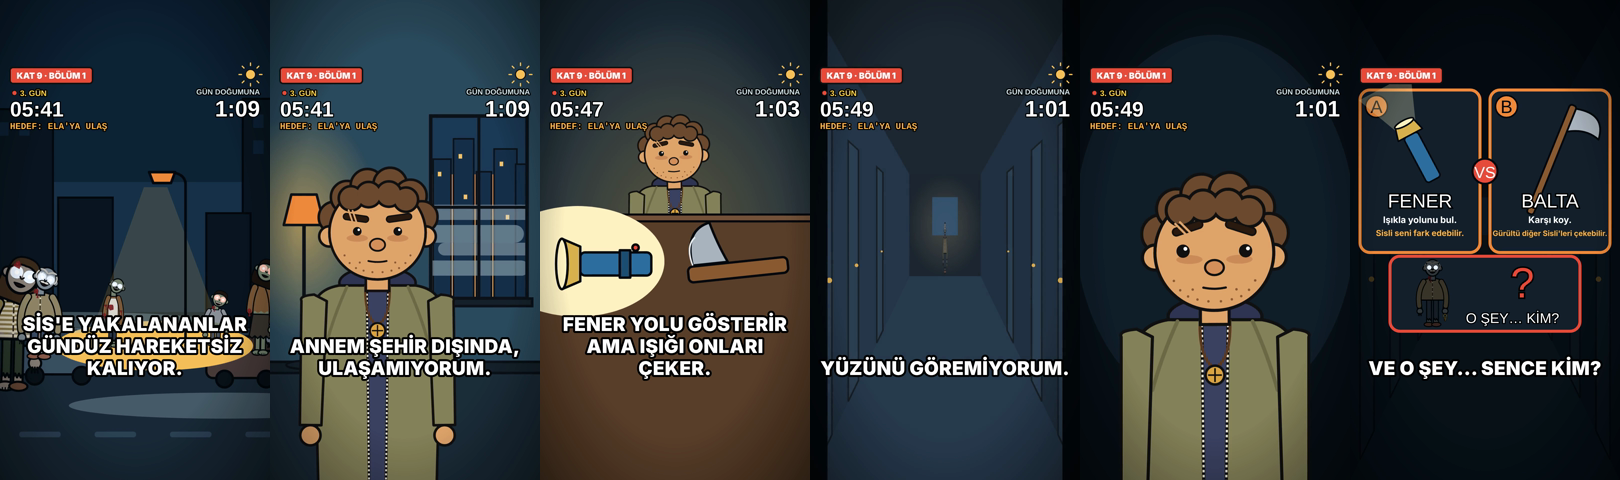
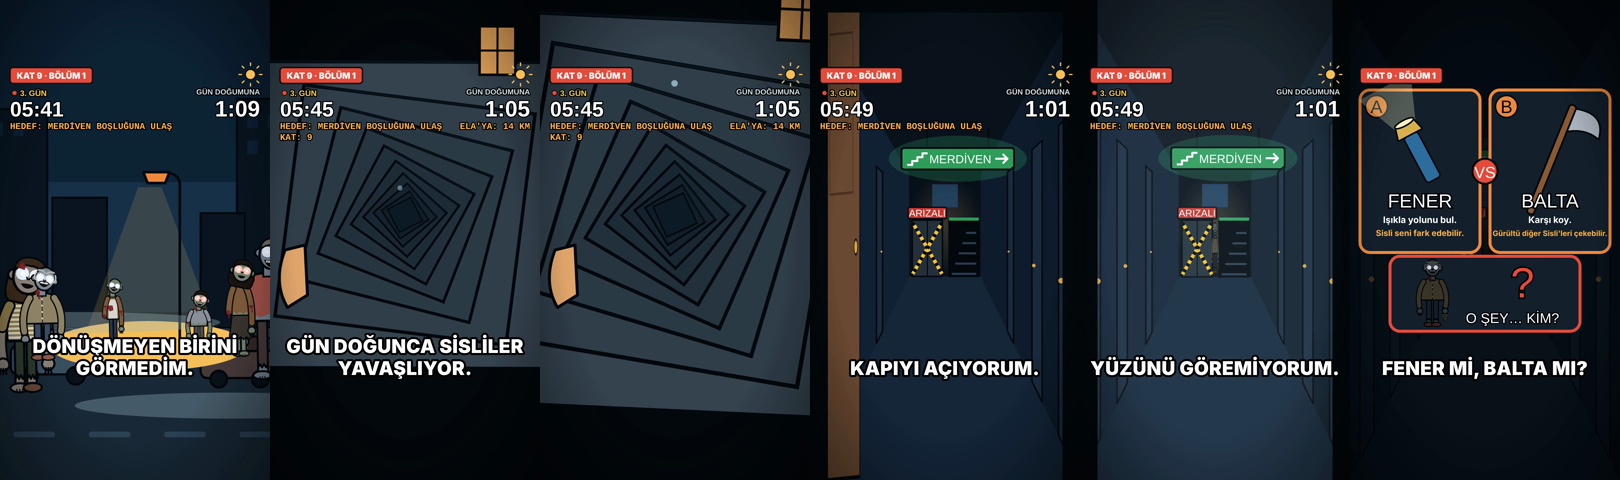
Bölüm 1 revizyon 7 render: sahne 2/11 yeni anlatıcı sesi (305 kredi), 109,3 sn
Claude-Session: https://claude.ai/code/session_01LL2aFcoaTdc2rLbhc4og9o

diff --git a/prototip/bolum01.build.html b/prototip/bolum01.build.html
@@ -359,7 +359,7 @@ svg{height:100vh;max-width:100vw;aspect-ratio:9/16;display:block}
 <g id="safe" style="display:none" pointer-events="none"><rect x="0" y="0" width="1080" height="270" fill="#ff3b30" opacity=".28"/><rect x="0" y="1500" width="1080" height="420" fill="#ff3b30" opacity=".28"/><rect x="960" y="1100" width="120" height="400" fill="#ff3b30" opacity=".28"/><text x="540" y="140" text-anchor="middle" font-size="30" fill="#fff">Reels üst alanı</text><text x="540" y="1700" text-anchor="middle" font-size="30" fill="#fff">Reels alt alanı</text></g>
 </svg>
 <!--ONIZLEME-->
-<script id="data" type="application/json">{"toplam": 106.93, "sahneler": [{"id": 1, "konusmaci": "Deniz", "ses_efekt": "rüzgâr, düşük gerilim müziği", "ses": {"dosya": "ses/sahne01-anlatici.mp3", "baslangic": 0.2, "sure": 2.456}, "altyazi": [{"t0": 0.2, "t1": 2.66, "satir": ["ÜÇ GÜN ÖNCE ŞEHRİN", "ÜSTÜNE SİS ÇÖKTÜ."], "konusan": "anlatici"}], "hud": {"gun": 3, "saat": "05:41", "kalan": "1:09", "kat": null, "uzak": null, "hedef": "MERDİVEN BOŞLUĞUNA ULAŞ"}, "baslangic": 0.0, "sure": 3.6}, {"id": 2, "konusmaci": "Deniz", "ses_efekt": "uzaktan inleme, lamba vızıltısı", "ses": {"dosya": "ses/sahne02-anlatici.mp3", "baslangic": 0.2, "sure": 8.542}, "altyazi": [{"t0": 0.2, "t1": 3.22, "satir": ["SİSİ SOLUYANLAR", "DAKİKALAR İÇİNDE", "DÖNÜŞÜYOR."], "konusan": "anlatici"}, {"t0": 3.22, "t1": 4.45, "satir": ["DÖNÜŞMEYEN BİRİNİ", "GÖRMEDİM."], "konusan": "anlatici"}, {"t0": 4.45, "t1": 7.58, "satir": ["GÜNDÜZ UYUŞUKLAR, GECE", "IŞIĞA VE SESE", "YÖNELİYORLAR."], "konusan": "anlatici"}, {"t0": 7.58, "t1": 9.0, "satir": ["ONLARA SİSLİ DEDİK."], "konusan": "anlatici"}], "hud": {"gun": 3, "saat": "05:41", "kalan": "1:09", "kat": null, "uzak": null, "hedef": "MERDİVEN BOŞLUĞUNA ULAŞ"}, "baslangic": 3.6, "sure": 9.24}, {"id": 3, "konusmaci": "Deniz", "ses_efekt": "elektrik kesilme, statik, sessizlik", "ses": {"dosya": "ses/sahne03-anlatici.mp3", "baslangic": 0.2, "sure": 5.381}, "altyazi": [{"t0": 0.32, "t1": 2.06, "satir": ["ÖNCE İNTERNET GİTTİ."], "konusan": "anlatici"}, {"t0": 2.06, "t1": 3.71, "satir": ["SONRA ELEKTRİK."], "konusan": "anlatici"}, {"t0": 3.71, "t1": 5.4, "satir": ["DÜN GECE RADYO DA", "SUSTU."], "konusan": "anlatici"}], "hud": {"gun": 3, "saat": "05:41", "kalan": "1:09", "kat": null, "uzak": null, "hedef": "MERDİVEN BOŞLUĞUNA ULAŞ"}, "baslangic": 12.84, "sure": 5.98}, {"id": 4, "konusmaci": "Deniz", "ses_efekt": "oda sessizliği", "ses": {"dosya": "ses/sahne04-deniz.mp3", "baslangic": 0.2, "sure": 2.769}, "altyazi": [{"t0": 0.25, "t1": 0.88, "satir": ["BEN DENİZ."], "konusan": "anlatici"}, {"t0": 0.88, "t1": 3.03, "satir": ["ANNEM ŞEHİR DIŞINDA,", "ULAŞAMIYORUM."], "konusan": "anlatici"}], "hud": {"gun": 3, "saat": "05:41", "kalan": "1:09", "kat": null, "uzak": null, "hedef": "MERDİVEN BOŞLUĞUNA ULAŞ"}, "baslangic": 18.82, "sure": 4.57}, {"id": 5, "konusmaci": "Deniz", "ses_efekt": "pusula tik sesi", "ses": {"dosya": "ses/sahne05-anlatici.mp3", "baslangic": 0.2, "sure": 3.814}, "altyazi": [{"t0": 0.2, "t1": 2.18, "satir": ["BABAM İKİ YIL ÖNCE", "ÖLDÜ."], "konusan": "anlatici"}, {"t0": 2.18, "t1": 4.11, "satir": ["GERİYE BİR PUSULA", "KALDI."], "konusan": "anlatici"}], "hud": {"gun": 3, "saat": "05:41", "kalan": "1:09", "kat": null, "uzak": null, "hedef": "MERDİVEN BOŞLUĞUNA ULAŞ"}, "baslangic": 23.39, "sure": 4.51}, {"id": 6, "konusmaci": "Deniz", "ses_efekt": "bildirim sesi", "ses": {"dosya": "ses/sahne06-anlatici.mp3", "baslangic": 0.2, "sure": 3.187}, "altyazi": [{"t0": 0.45, "t1": 2.03, "satir": ["TELEFONUM YÜZDE DÖRT."], "konusan": "anlatici"}, {"t0": 2.03, "t1": 3.62, "satir": ["TEK BİR MESAJ GELİYOR."], "konusan": "anlatici"}], "hud": {"gun": 3, "saat": "05:41", "kalan": "1:09", "kat": null, "uzak": null, "hedef": "MERDİVEN BOŞLUĞUNA ULAŞ"}, "baslangic": 27.91, "sure": 3.84}, {"id": 7, "konusmaci": "Ela", "ses_efekt": "kâğıt üstünde kalem, mesaj kesilmesi", "ses": {"dosya": "ses/sahne07-ela.mp3", "baslangic": 0.2, "sure": 8.908}, "altyazi": [{"t0": 0.28, "t1": 1.92, "satir": ["ABİ, BEN İYİYİM!"], "konusan": "ela"}, {"t0": 1.92, "t1": 5.07, "satir": ["SENİ ÇİZİYORUM, ÇOK", "UZUN ÇIKTIN."], "konusan": "ela"}, {"t0": 5.07, "t1": 7.81, "satir": ["GELİRSİN, DEĞİL Mİ?"], "konusan": "ela"}, {"t0": 7.81, "t1": 7.81, "satir": ["ABİ?"], "konusan": "ela"}, {"t0": 7.81, "t1": 8.87, "satir": ["PİLİM..."], "konusan": "ela"}], "agiz": [0, 0, 0, 0, 2, 2, 2, 2, 2, 2, 2, 0, 2, 2, 2, 2, 2, 2, 0, 0, 0, 0, 0, 0, 0, 2, 2, 2, 2, 2, 2, 1, 1, 2, 2, 2, 1, 1, 1, 1, 2, 2, 2, 2, 2, 1, 1, 0, 0, 0, 0, 0, 0, 0, 0, 0, 0, 2, 2, 2, 1, 1, 1, 0, 0, 0, 0, 0, 0, 2, 2, 2, 2, 0, 0, 0, 0, 0, 0, 2, 2, 2, 2, 2, 2, 1, 1, 1, 1, 2, 2, 3, 3, 2, 2, 2, 2, 2, 2, 2, 2, 2, 3, 3, 0, 0, 0, 0, 0, 0, 0, 2, 2, 2, 0, 0, 0, 2, 2, 2, 1, 1, 2, 2, 1, 1, 0, 1, 1, 1, 1, 1, 0, 0, 0, 0, 2, 3, 3, 3, 3, 0, 0, 0, 0, 0, 0, 0, 0, 0, 0, 0, 0, 0, 1, 1, 1, 2, 2, 2, 1, 1, 1, 1, 1, 0, 0, 0, 0, 0, 0, 3, 3, 3, 3, 3, 3, 3, 3, 1, 1, 0, 0, 0, 0, 0, 0, 0, 0, 0, 0, 0, 0, 0, 0, 0, 0, 0, 0, 0, 0, 0, 0, 0, 1, 1, 1, 1, 1, 1, 1, 0, 0, 3, 1, 1, 1, 0, 0, 0, 0, 0, 0, 0, 0, 0, 0, 0, 0, 0, 0, 0, 0, 0, 0, 0, 0, 0, 0, 0, 0, 0, 0, 0, 3, 1, 1, 1, 1, 1, 3, 3, 0, 0, 0, 0, 0, 0, 0, 0, 0, 0, 0, 0, 0, 0, 0], "hud": {"gun": 3, "saat": "05:41", "kalan": "1:09", "kat": null, "uzak": null, "hedef": "MERDİVEN BOŞLUĞUNA ULAŞ"}, "baslangic": 31.74, "sure": 9.61}, {"id": 8, "konusmaci": "-", "ses_efekt": "telefon kapanma sesi, 2 sn sessizlik", "sessiz": true, "altyazi": [], "hud": null, "baslangic": 41.35, "sure": 4.0}, {"id": 9, "konusmaci": "Deniz", "ses_efekt": "sıcak müzik", "ses": {"dosya": "ses/sahne09-anlatici.mp3", "baslangic": 0.2, "sure": 7.184}, "altyazi": [{"t0": 0.2, "t1": 1.95, "satir": ["ELA BENİM KÜÇÜK", "KARDEŞİM."], "konusan": "anlatici"}, {"t0": 1.95, "t1": 5.3, "satir": ["ON İKİ YAŞINDA,", "DÜNYANIN EN İNATÇI", "ÇOCUĞU."], "konusan": "anlatici"}, {"t0": 5.3, "t1": 7.25, "satir": ["ÜÇ GÜNDÜR DERSHANEDE", "MAHSUR."], "konusan": "anlatici"}], "hud": {"gun": 3, "saat": "05:43", "kalan": "1:07", "kat": null, "uzak": null, "hedef": "MERDİVEN BOŞLUĞUNA ULAŞ"}, "baslangic": 45.35, "sure": 7.78}, {"id": 10, "konusmaci": "Deniz", "ses_efekt": "kâğıt hışırtısı", "ses": {"dosya": "ses/sahne10-anlatici.mp3", "baslangic": 0.2, "sure": 8.229}, "altyazi": [{"t0": 0.2, "t1": 4.7, "satir": ["BUZDOLABINDA ELA'NIN", "ESKİ ÇİZİMİ: BEN,", "ELİMDE PUSULAYLA."], "konusan": "anlatici"}, {"t0": 4.7, "t1": 8.44, "satir": ["ALTINDA TEK SATIR:", "KAYBOLURSAN PUSULANA", "BAK."], "konusan": "anlatici"}], "hud": {"gun": 3, "saat": "05:43", "kalan": "1:07", "kat": null, "uzak": null, "hedef": "MERDİVEN BOŞLUĞUNA ULAŞ"}, "baslangic": 53.13, "sure": 8.93}, {"id": 11, "konusmaci": "Deniz", "ses_efekt": "uğultu, damla sesi", "ses": {"dosya": "ses/sahne11-anlatici.mp3", "baslangic": 0.2, "sure": 7.523}, "altyazi": [{"t0": 0.2, "t1": 1.97, "satir": ["GÜN DOĞUNCA SİSLİLER", "YAVAŞLIYOR."], "konusan": "anlatici"}, {"t0": 1.97, "t1": 4.45, "satir": ["O ZAMANA KADAR AŞAĞI", "İNMELİYİM."], "konusan": "anlatici"}, {"t0": 4.45, "t1": 7.74, "satir": ["ÖNCE KORİDORUN", "SONUNDAKİ MERDİVEN", "BOŞLUĞUNA."], "konusan": "anlatici"}], "hud": {"gun": 3, "saat": "05:45", "kalan": "1:05", "kat": "9", "uzak": "14 KM", "hedef": "MERDİVEN BOŞLUĞUNA ULAŞ"}, "baslangic": 62.06, "sure": 8.22}, {"id": 12, "konusmaci": "Deniz", "ses_efekt": "ayak sesi, kilit", "ses": {"dosya": "ses/sahne12-anlatici.mp3", "baslangic": 0.2, "sure": 3.265}, "altyazi": [{"t0": 0.2, "t1": 1.4, "satir": ["KAPIYA YÜRÜYORUM."], "konusan": "anlatici"}, {"t0": 1.4, "t1": 3.72, "satir": ["KORİDOR TAMAMEN", "KARANLIK."], "konusan": "anlatici"}], "hud": {"gun": 3, "saat": "05:47", "kalan": "1:03", "kat": "9", "uzak": null, "hedef": "MERDİVEN BOŞLUĞUNA ULAŞ"}, "baslangic": 70.29, "sure": 3.87}, {"id": 13, "konusmaci": "Deniz", "ses_efekt": "fener tık, balta ağırlığı", "ses": {"dosya": "ses/sahne13-anlatici.mp3", "baslangic": 0.2, "sure": 10.606}, "altyazi": [{"t0": 0.22, "t1": 3.19, "satir": ["MASADA İKİ ŞEY: FENER", "VE BABAMIN BALTASI."], "konusan": "anlatici"}, {"t0": 3.19, "t1": 6.24, "satir": ["FENER YOLU GÖSTERİR", "AMA IŞIĞI ONLARI", "ÇEKER."], "konusan": "anlatici"}, {"t0": 6.24, "t1": 10.71, "satir": ["BALTA KORUR, KAPI", "KIRAR AMA ÇIKARDIĞI", "SES DE ONLARI ÇEKER."], "konusan": "anlatici"}], "vurgu": [0.22, 3.19, 6.24], "hud": {"gun": 3, "saat": "05:47", "kalan": "1:03", "kat": null, "uzak": null, "hedef": "MERDİVEN BOŞLUĞUNA ULAŞ"}, "baslangic": 74.15, "sure": 11.41}, {"id": 14, "konusmaci": "Deniz", "ses_efekt": "ağır nefes, uzaktan anahtar şıngırtısı (Sisli Komşu'nun ipucu)", "ses": {"dosya": "ses/sahne14-anlatici.mp3", "baslangic": 0.2, "sure": 3.814}, "altyazi": [{"t0": 0.2, "t1": 1.35, "satir": ["KAPIYI AÇIYORUM."], "konusan": "anlatici"}, {"t0": 1.35, "t1": 4.11, "satir": ["KORİDORDA AĞIR BİR", "NEFES SESİ."], "konusan": "anlatici"}], "hud": {"gun": 3, "saat": "05:49", "kalan": "1:01", "kat": null, "uzak": null, "hedef": "MERDİVEN BOŞLUĞUNA ULAŞ"}, "baslangic": 85.56, "sure": 4.51}, {"id": 15, "konusmaci": "Deniz (anlatıcı)", "ses_efekt": "Sisli ses imzası: derin, boğuk, kuru ve kesik hırıltı-nefes; düzensiz solunum; anahtar şıngırtısı; kalp atışı; sonda alçak vuruş. KONUŞMA YOK.", "ses": {"dosya": "ses/sahne15-anlatici.mp3", "baslangic": 0.2, "sure": 3.33, "kirp": true}, "altyazi": [{"t0": 0.2, "t1": 1.83, "satir": ["BİRİ YAVAŞÇA DÖNÜYOR."], "konusan": "anlatici"}, {"t0": 1.83, "t1": 3.49, "satir": ["YÜZÜNÜ GÖREMİYORUM."], "konusan": "anlatici"}], "hud": {"gun": 3, "saat": "05:49", "kalan": "1:01", "kat": null, "uzak": null, "hedef": "MERDİVEN BOŞLUĞUNA ULAŞ"}, "baslangic": 90.07, "sure": 8.73}, {"id": 16, "konusmaci": "-", "ses_efekt": "sert bir nefes çekiş, nefes tutma sessizliği, hızlanan kalp atışı, uzaktan yaklaşan kuru hırıltı", "sessiz": true, "altyazi": [], "hud": {"gun": 3, "saat": "05:49", "kalan": "1:01", "kat": null, "uzak": null, "hedef": "MERDİVEN BOŞLUĞUNA ULAŞ"}, "baslangic": 98.8, "sure": 3.0}, {"id": 17, "konusmaci": "Deniz", "ses_efekt": "vurgu sesi", "ses": {"dosya": "ses/sahne17-anlatici.mp3", "baslangic": 0.2, "sure": 4.127}, "altyazi": [{"t0": 0.2, "t1": 2.05, "satir": ["FENER Mİ, BALTA MI?"], "konusan": "anlatici"}, {"t0": 2.05, "t1": 4.58, "satir": ["VE O ŞEY… SENCE KİM?"], "konusan": "anlatici"}], "hud": null, "baslangic": 101.8, "sure": 5.13}]}</script>
+<script id="data" type="application/json">{"toplam": 109.25, "sahneler": [{"id": 1, "konusmaci": "Deniz", "ses_efekt": "rüzgâr, düşük gerilim müziği", "ses": {"dosya": "ses/sahne01-anlatici.mp3", "baslangic": 0.2, "sure": 2.456}, "altyazi": [{"t0": 0.2, "t1": 2.66, "satir": ["ÜÇ GÜN ÖNCE ŞEHRİN", "ÜSTÜNE SİS ÇÖKTÜ."], "konusan": "anlatici"}], "hud": {"gun": 3, "saat": "05:41", "kalan": "1:09", "kat": null, "uzak": null, "hedef": "MERDİVEN BOŞLUĞUNA ULAŞ"}, "baslangic": 0.0, "sure": 3.6}, {"id": 2, "konusmaci": "Deniz", "ses_efekt": "uzaktan inleme, lamba vızıltısı", "ses": {"dosya": "ses/sahne02-anlatici.mp3", "baslangic": 0.2, "sure": 10.841}, "altyazi": [{"t0": 0.35, "t1": 3.38, "satir": ["SİSİ SOLUYANLAR", "DAKİKALAR İÇİNDE", "DÖNÜŞÜYOR."], "konusan": "anlatici"}, {"t0": 3.38, "t1": 5.33, "satir": ["DÖNÜŞMEYEN BİRİNİ", "GÖRMEDİM."], "konusan": "anlatici"}, {"t0": 5.33, "t1": 8.96, "satir": ["GÜNDÜZ UYUŞUKLAR, GECE", "IŞIĞA VE SESE", "YÖNELİYORLAR."], "konusan": "anlatici"}, {"t0": 8.96, "t1": 11.14, "satir": ["ONLARA SİSLİ DEDİK."], "konusan": "anlatici"}], "hud": {"gun": 3, "saat": "05:41", "kalan": "1:09", "kat": null, "uzak": null, "hedef": "MERDİVEN BOŞLUĞUNA ULAŞ"}, "baslangic": 3.6, "sure": 11.54}, {"id": 3, "konusmaci": "Deniz", "ses_efekt": "elektrik kesilme, statik, sessizlik", "ses": {"dosya": "ses/sahne03-anlatici.mp3", "baslangic": 0.2, "sure": 5.381}, "altyazi": [{"t0": 0.32, "t1": 2.06, "satir": ["ÖNCE İNTERNET GİTTİ."], "konusan": "anlatici"}, {"t0": 2.06, "t1": 3.71, "satir": ["SONRA ELEKTRİK."], "konusan": "anlatici"}, {"t0": 3.71, "t1": 5.4, "satir": ["DÜN GECE RADYO DA", "SUSTU."], "konusan": "anlatici"}], "hud": {"gun": 3, "saat": "05:41", "kalan": "1:09", "kat": null, "uzak": null, "hedef": "MERDİVEN BOŞLUĞUNA ULAŞ"}, "baslangic": 15.14, "sure": 5.98}, {"id": 4, "konusmaci": "Deniz", "ses_efekt": "oda sessizliği", "ses": {"dosya": "ses/sahne04-deniz.mp3", "baslangic": 0.2, "sure": 2.769}, "altyazi": [{"t0": 0.25, "t1": 0.88, "satir": ["BEN DENİZ."], "konusan": "anlatici"}, {"t0": 0.88, "t1": 3.03, "satir": ["ANNEM ŞEHİR DIŞINDA,", "ULAŞAMIYORUM."], "konusan": "anlatici"}], "hud": {"gun": 3, "saat": "05:41", "kalan": "1:09", "kat": null, "uzak": null, "hedef": "MERDİVEN BOŞLUĞUNA ULAŞ"}, "baslangic": 21.12, "sure": 4.57}, {"id": 5, "konusmaci": "Deniz", "ses_efekt": "pusula tik sesi", "ses": {"dosya": "ses/sahne05-anlatici.mp3", "baslangic": 0.2, "sure": 3.814}, "altyazi": [{"t0": 0.2, "t1": 2.18, "satir": ["BABAM İKİ YIL ÖNCE", "ÖLDÜ."], "konusan": "anlatici"}, {"t0": 2.18, "t1": 4.11, "satir": ["GERİYE BİR PUSULA", "KALDI."], "konusan": "anlatici"}], "hud": {"gun": 3, "saat": "05:41", "kalan": "1:09", "kat": null, "uzak": null, "hedef": "MERDİVEN BOŞLUĞUNA ULAŞ"}, "baslangic": 25.69, "sure": 4.51}, {"id": 6, "konusmaci": "Deniz", "ses_efekt": "bildirim sesi", "ses": {"dosya": "ses/sahne06-anlatici.mp3", "baslangic": 0.2, "sure": 3.187}, "altyazi": [{"t0": 0.45, "t1": 2.03, "satir": ["TELEFONUM YÜZDE DÖRT."], "konusan": "anlatici"}, {"t0": 2.03, "t1": 3.62, "satir": ["TEK BİR MESAJ GELİYOR."], "konusan": "anlatici"}], "hud": {"gun": 3, "saat": "05:41", "kalan": "1:09", "kat": null, "uzak": null, "hedef": "MERDİVEN BOŞLUĞUNA ULAŞ"}, "baslangic": 30.2, "sure": 3.84}, {"id": 7, "konusmaci": "Ela", "ses_efekt": "kâğıt üstünde kalem, mesaj kesilmesi", "ses": {"dosya": "ses/sahne07-ela.mp3", "baslangic": 0.2, "sure": 8.908}, "altyazi": [{"t0": 0.28, "t1": 1.92, "satir": ["ABİ, BEN İYİYİM!"], "konusan": "ela"}, {"t0": 1.92, "t1": 5.07, "satir": ["SENİ ÇİZİYORUM, ÇOK", "UZUN ÇIKTIN."], "konusan": "ela"}, {"t0": 5.07, "t1": 7.81, "satir": ["GELİRSİN, DEĞİL Mİ?"], "konusan": "ela"}, {"t0": 7.81, "t1": 7.81, "satir": ["ABİ?"], "konusan": "ela"}, {"t0": 7.81, "t1": 8.87, "satir": ["PİLİM..."], "konusan": "ela"}], "agiz": [0, 0, 0, 0, 2, 2, 2, 2, 2, 2, 2, 0, 2, 2, 2, 2, 2, 2, 0, 0, 0, 0, 0, 0, 0, 2, 2, 2, 2, 2, 2, 1, 1, 2, 2, 2, 1, 1, 1, 1, 2, 2, 2, 2, 2, 1, 1, 0, 0, 0, 0, 0, 0, 0, 0, 0, 0, 2, 2, 2, 1, 1, 1, 0, 0, 0, 0, 0, 0, 2, 2, 2, 2, 0, 0, 0, 0, 0, 0, 2, 2, 2, 2, 2, 2, 1, 1, 1, 1, 2, 2, 3, 3, 2, 2, 2, 2, 2, 2, 2, 2, 2, 3, 3, 0, 0, 0, 0, 0, 0, 0, 2, 2, 2, 0, 0, 0, 2, 2, 2, 1, 1, 2, 2, 1, 1, 0, 1, 1, 1, 1, 1, 0, 0, 0, 0, 2, 3, 3, 3, 3, 0, 0, 0, 0, 0, 0, 0, 0, 0, 0, 0, 0, 0, 1, 1, 1, 2, 2, 2, 1, 1, 1, 1, 1, 0, 0, 0, 0, 0, 0, 3, 3, 3, 3, 3, 3, 3, 3, 1, 1, 0, 0, 0, 0, 0, 0, 0, 0, 0, 0, 0, 0, 0, 0, 0, 0, 0, 0, 0, 0, 0, 0, 0, 1, 1, 1, 1, 1, 1, 1, 0, 0, 3, 1, 1, 1, 0, 0, 0, 0, 0, 0, 0, 0, 0, 0, 0, 0, 0, 0, 0, 0, 0, 0, 0, 0, 0, 0, 0, 0, 0, 0, 0, 3, 1, 1, 1, 1, 1, 3, 3, 0, 0, 0, 0, 0, 0, 0, 0, 0, 0, 0, 0, 0, 0, 0], "hud": {"gun": 3, "saat": "05:41", "kalan": "1:09", "kat": null, "uzak": null, "hedef": "MERDİVEN BOŞLUĞUNA ULAŞ"}, "baslangic": 34.04, "sure": 9.61}, {"id": 8, "konusmaci": "-", "ses_efekt": "telefon kapanma sesi, 2 sn sessizlik", "sessiz": true, "altyazi": [], "hud": null, "baslangic": 43.65, "sure": 4.0}, {"id": 9, "konusmaci": "Deniz", "ses_efekt": "sıcak müzik", "ses": {"dosya": "ses/sahne09-anlatici.mp3", "baslangic": 0.2, "sure": 7.184}, "altyazi": [{"t0": 0.2, "t1": 1.95, "satir": ["ELA BENİM KÜÇÜK", "KARDEŞİM."], "konusan": "anlatici"}, {"t0": 1.95, "t1": 5.3, "satir": ["ON İKİ YAŞINDA,", "DÜNYANIN EN İNATÇI", "ÇOCUĞU."], "konusan": "anlatici"}, {"t0": 5.3, "t1": 7.25, "satir": ["ÜÇ GÜNDÜR DERSHANEDE", "MAHSUR."], "konusan": "anlatici"}], "hud": {"gun": 3, "saat": "05:43", "kalan": "1:07", "kat": null, "uzak": null, "hedef": "MERDİVEN BOŞLUĞUNA ULAŞ"}, "baslangic": 47.65, "sure": 7.78}, {"id": 10, "konusmaci": "Deniz", "ses_efekt": "kâğıt hışırtısı", "ses": {"dosya": "ses/sahne10-anlatici.mp3", "baslangic": 0.2, "sure": 8.229}, "altyazi": [{"t0": 0.2, "t1": 4.7, "satir": ["BUZDOLABINDA ELA'NIN", "ESKİ ÇİZİMİ: BEN,", "ELİMDE PUSULAYLA."], "konusan": "anlatici"}, {"t0": 4.7, "t1": 8.44, "satir": ["ALTINDA TEK SATIR:", "KAYBOLURSAN PUSULANA", "BAK."], "konusan": "anlatici"}], "hud": {"gun": 3, "saat": "05:43", "kalan": "1:07", "kat": null, "uzak": null, "hedef": "MERDİVEN BOŞLUĞUNA ULAŞ"}, "baslangic": 55.43, "sure": 8.93}, {"id": 11, "konusmaci": "Deniz", "ses_efekt": "uğultu, damla sesi", "ses": {"dosya": "ses/sahne11-anlatici.mp3", "baslangic": 0.2, "sure": 7.549}, "altyazi": [{"t0": 0.35, "t1": 2.39, "satir": ["GÜN DOĞUNCA SİSLİLER", "YAVAŞLIYOR."], "konusan": "anlatici"}, {"t0": 2.39, "t1": 4.56, "satir": ["O ZAMANA KADAR AŞAĞI", "İNMELİYİM."], "konusan": "anlatici"}, {"t0": 4.56, "t1": 7.45, "satir": ["ÖNCE KORİDORUN", "SONUNDAKİ MERDİVEN", "BOŞLUĞUNA."], "konusan": "anlatici"}], "hud": {"gun": 3, "saat": "05:45", "kalan": "1:05", "kat": "9", "uzak": "14 KM", "hedef": "MERDİVEN BOŞLUĞUNA ULAŞ"}, "baslangic": 64.36, "sure": 8.25}, {"id": 12, "konusmaci": "Deniz", "ses_efekt": "ayak sesi, kilit", "ses": {"dosya": "ses/sahne12-anlatici.mp3", "baslangic": 0.2, "sure": 3.265}, "altyazi": [{"t0": 0.2, "t1": 1.4, "satir": ["KAPIYA YÜRÜYORUM."], "konusan": "anlatici"}, {"t0": 1.4, "t1": 3.72, "satir": ["KORİDOR TAMAMEN", "KARANLIK."], "konusan": "anlatici"}], "hud": {"gun": 3, "saat": "05:47", "kalan": "1:03", "kat": "9", "uzak": null, "hedef": "MERDİVEN BOŞLUĞUNA ULAŞ"}, "baslangic": 72.61, "sure": 3.87}, {"id": 13, "konusmaci": "Deniz", "ses_efekt": "fener tık, balta ağırlığı", "ses": {"dosya": "ses/sahne13-anlatici.mp3", "baslangic": 0.2, "sure": 10.606}, "altyazi": [{"t0": 0.22, "t1": 3.19, "satir": ["MASADA İKİ ŞEY: FENER", "VE BABAMIN BALTASI."], "konusan": "anlatici"}, {"t0": 3.19, "t1": 6.24, "satir": ["FENER YOLU GÖSTERİR", "AMA IŞIĞI ONLARI", "ÇEKER."], "konusan": "anlatici"}, {"t0": 6.24, "t1": 10.71, "satir": ["BALTA KORUR, KAPI", "KIRAR AMA ÇIKARDIĞI", "SES DE ONLARI ÇEKER."], "konusan": "anlatici"}], "vurgu": [0.22, 3.19, 6.24], "hud": {"gun": 3, "saat": "05:47", "kalan": "1:03", "kat": null, "uzak": null, "hedef": "MERDİVEN BOŞLUĞUNA ULAŞ"}, "baslangic": 76.48, "sure": 11.41}, {"id": 14, "konusmaci": "Deniz", "ses_efekt": "ağır nefes, uzaktan anahtar şıngırtısı (Sisli Komşu'nun ipucu)", "ses": {"dosya": "ses/sahne14-anlatici.mp3", "baslangic": 0.2, "sure": 3.814}, "altyazi": [{"t0": 0.2, "t1": 1.35, "satir": ["KAPIYI AÇIYORUM."], "konusan": "anlatici"}, {"t0": 1.35, "t1": 4.11, "satir": ["KORİDORDA AĞIR BİR", "NEFES SESİ."], "konusan": "anlatici"}], "hud": {"gun": 3, "saat": "05:49", "kalan": "1:01", "kat": null, "uzak": null, "hedef": "MERDİVEN BOŞLUĞUNA ULAŞ"}, "baslangic": 87.88, "sure": 4.51}, {"id": 15, "konusmaci": "Deniz (anlatıcı)", "ses_efekt": "Sisli ses imzası: derin, boğuk, kuru ve kesik hırıltı-nefes; düzensiz solunum; anahtar şıngırtısı; kalp atışı; sonda alçak vuruş. KONUŞMA YOK.", "ses": {"dosya": "ses/sahne15-anlatici.mp3", "baslangic": 0.2, "sure": 3.33, "kirp": true}, "altyazi": [{"t0": 0.2, "t1": 1.83, "satir": ["BİRİ YAVAŞÇA DÖNÜYOR."], "konusan": "anlatici"}, {"t0": 1.83, "t1": 3.49, "satir": ["YÜZÜNÜ GÖREMİYORUM."], "konusan": "anlatici"}], "hud": {"gun": 3, "saat": "05:49", "kalan": "1:01", "kat": null, "uzak": null, "hedef": "MERDİVEN BOŞLUĞUNA ULAŞ"}, "baslangic": 92.4, "sure": 8.73}, {"id": 16, "konusmaci": "-", "ses_efekt": "sert bir nefes çekiş, nefes tutma sessizliği, hızlanan kalp atışı, uzaktan yaklaşan kuru hırıltı", "sessiz": true, "altyazi": [], "hud": {"gun": 3, "saat": "05:49", "kalan": "1:01", "kat": null, "uzak": null, "hedef": "MERDİVEN BOŞLUĞUNA ULAŞ"}, "baslangic": 101.13, "sure": 3.0}, {"id": 17, "konusmaci": "Deniz", "ses_efekt": "vurgu sesi", "ses": {"dosya": "ses/sahne17-anlatici.mp3", "baslangic": 0.2, "sure": 4.127}, "altyazi": [{"t0": 0.2, "t1": 2.05, "satir": ["FENER Mİ, BALTA MI?"], "konusan": "anlatici"}, {"t0": 2.05, "t1": 4.58, "satir": ["VE O ŞEY… SENCE KİM?"], "konusan": "anlatici"}], "hud": null, "baslangic": 104.13, "sure": 5.13}]}</script>
 <script src="../sablon/sisli.js"></script>
 <script src="../sablon/rigs.js"></script>
 <script>

diff --git a/story/bolum-01/revizyon-7.md b/story/bolum-01/revizyon-7.md
@@ -30,3 +30,8 @@ Bölüm 1'in gerçek bitişi: Deniz daire kapısını açar (sahne 14). Koridord
 | 11 | Gün doğunca Sisliler yavaşlıyor. O zamana kadar aşağı inmeliyim. Önce koridorun sonundaki merdivene. | 13 | ~7,0 sn (şu an 7,5) | ~116 |
 
 Toplam ~296 kredi, bölüm ~108,9 sn. Panel: HEDEF: MERDİVEN BOŞLUĞUNA ULAŞ (sığdığı ölçüldü).
+
+## Üretim (kullanıcı onaylı)
+- Sesler üretildi: sahne 2 = 180 kredi (10,84 sn), sahne 11 = 125 kredi (7,55 sn). **Toplam 305 kredi.** Tahmin 296'ydı: sahne 11 tahmini "merdivene" metniyle yapılmıştı, kesin metin "merdiven boşluğuna" olunca +9 kredi.
+- Eski sesler: `ses/ham/rev6/`.
+- Render: `cikti.mp4`, 109,27 sn, 1080x1920, ses var.

diff --git a/YAPILACAKLAR.md b/YAPILACAKLAR.md
@@ -11,3 +11,5 @@
 - [ ] Bölüm 2 ve 3, sonra yayın
 - [x] Revizyon 6 uygulandı ve render edildi (onaylı Sisli ses imzası dahil)
 - [ ] Kullanılmayan sesler (Ahmet fısıltı 28 kredi, Deniz sahne 16 v1+v2 83 kredi) ileride yeniden kullanılabilir mi değerlendir
+- [x] Revizyon 7 (dünya kuralı, panel hedefi, havlu, ARIZALI/MERDİVEN) render edildi, 109,3 sn
+- [ ] Ela'nın sırrı için ipucu dağılımını planla (Bölüm 3'ten önce)
